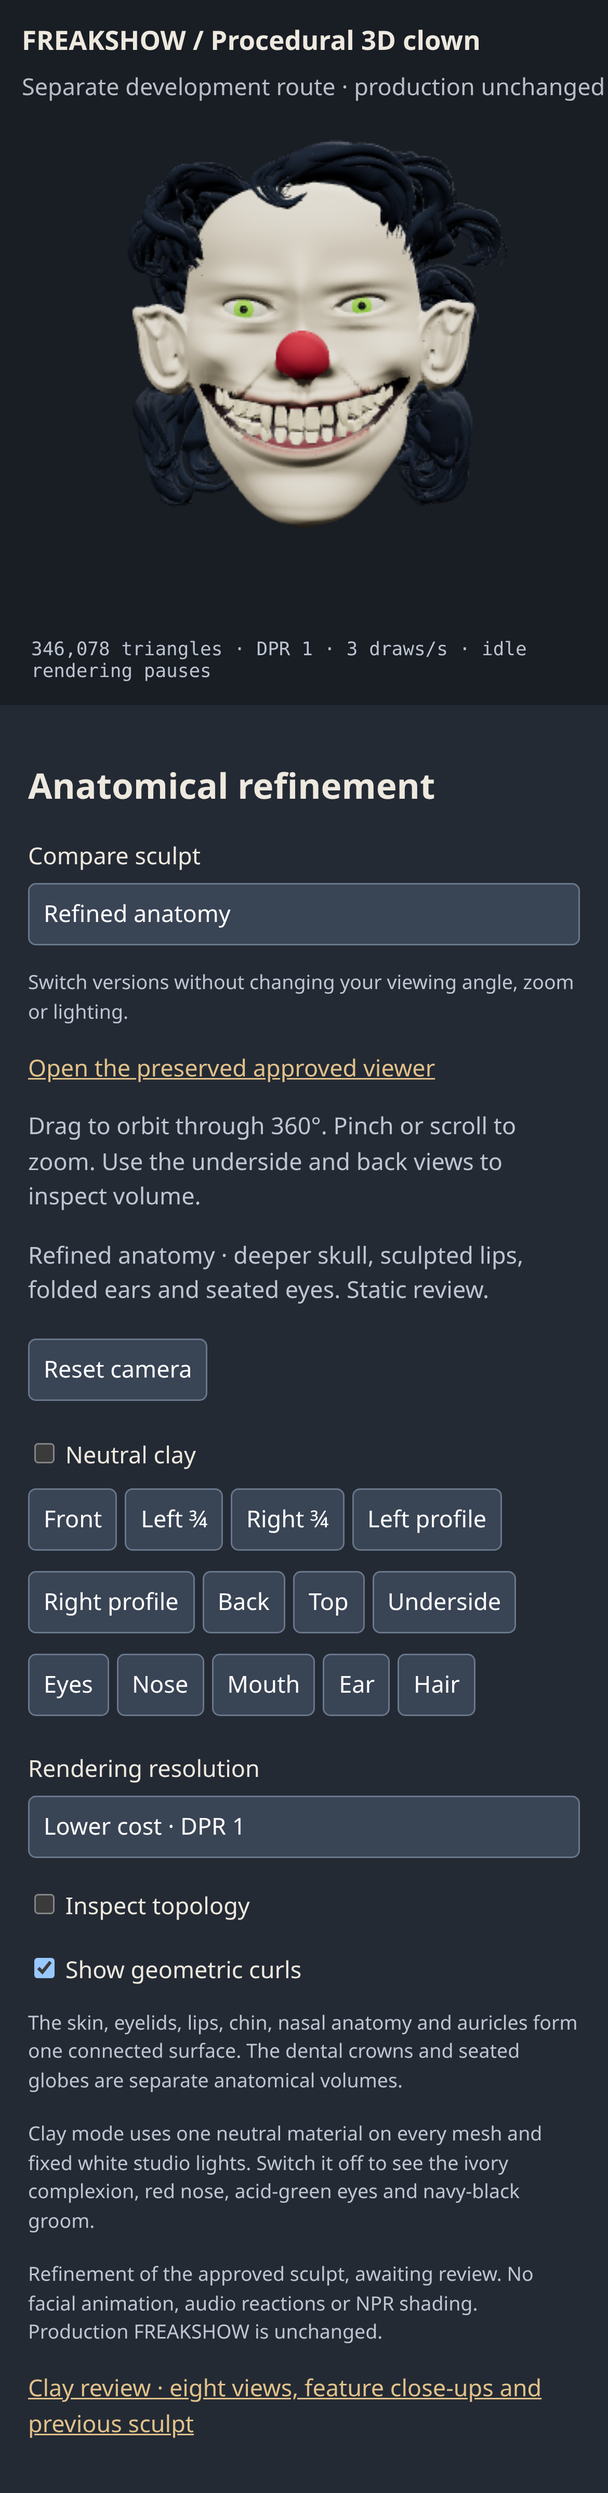
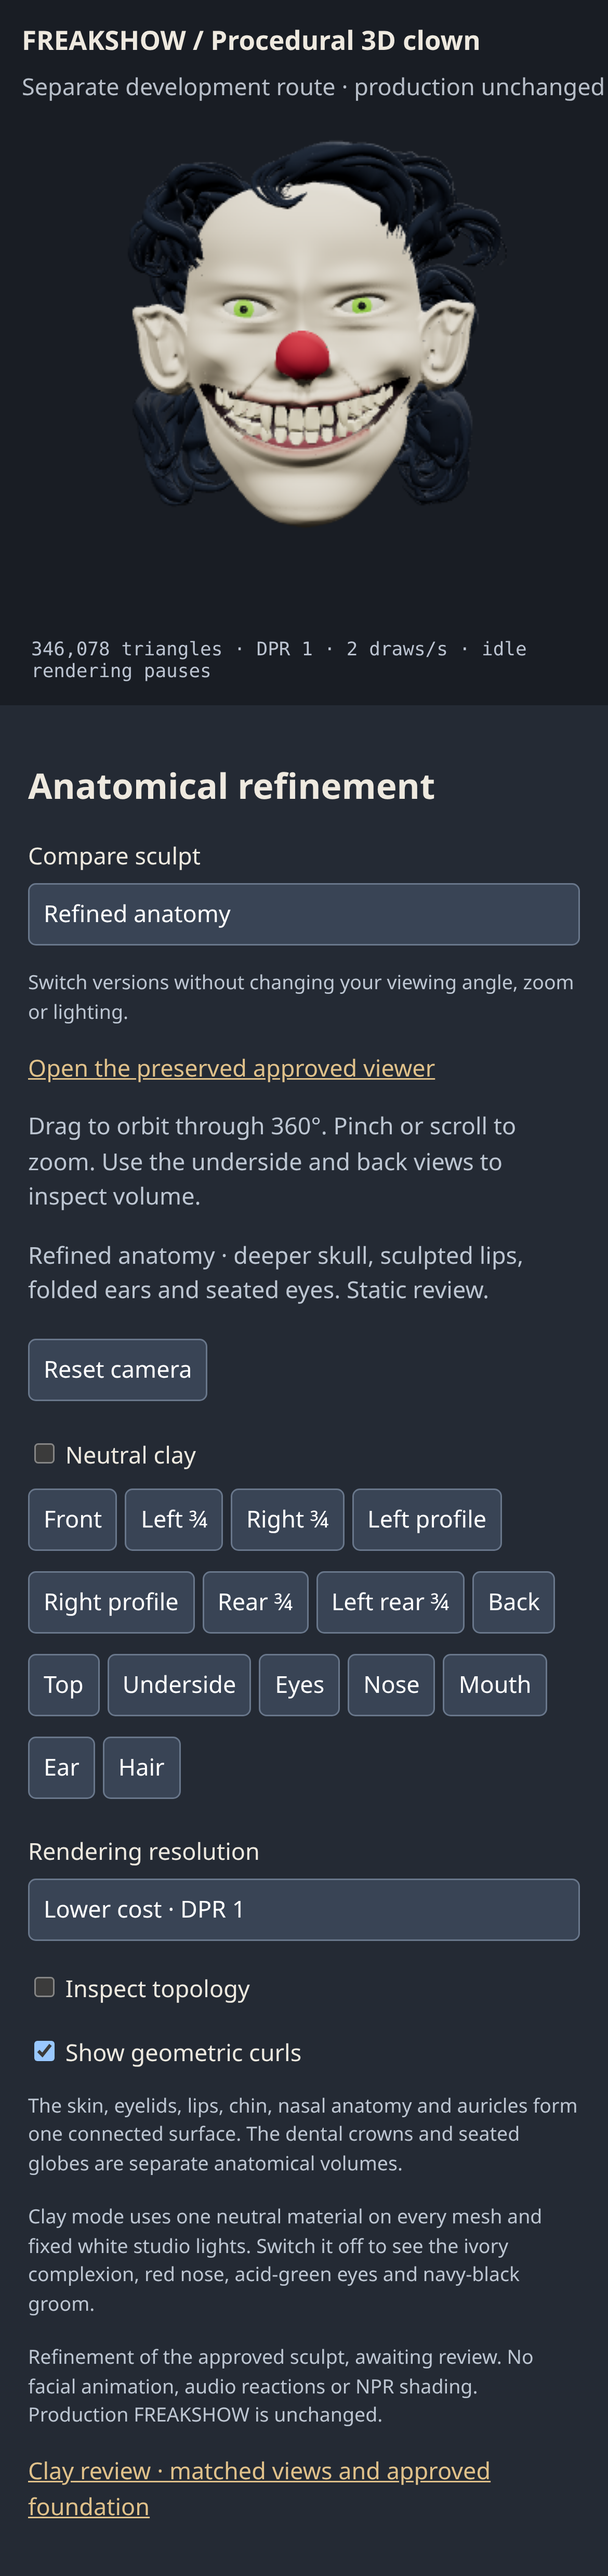
Verify rendered comparison frames and expose rear inspection views

diff --git a/tests/sculpted-viewer-browser.js b/tests/sculpted-viewer-browser.js
@@ -251,6 +251,11 @@ try {
         ),
       );
       assert.equal(await page.locator("#jaw,#expression").count(), 0);
+      await page.locator('[data-view="rear-three-quarter"]').click();
+      assert.ok(
+        await page.evaluate(() => assetViewer.camera.position.z < 0),
+        "Rear shortcut must show the rear",
+      );
       await capture(page);
       // Controls change the actual rendered scene and work independently of capture.
       await page.locator("#clay").uncheck();
@@ -317,6 +322,8 @@ try {
       await page.waitForFunction(
         () =>
           assetViewer.modelState.revision === "sculpt-reconstruction-2" &&
+          document.querySelector("#scene").dataset.renderedRevision ===
+            "sculpt-reconstruction-2" &&
           !document.querySelector("#model-version").disabled,
         null,
         { timeout: 90000 },
@@ -333,6 +340,8 @@ try {
       await page.waitForFunction(
         () =>
           assetViewer.modelState.revision === "anatomical-refinement-3" &&
+          document.querySelector("#scene").dataset.renderedRevision ===
+            "anatomical-refinement-3" &&
           !document.querySelector("#model-version").disabled,
       );
       const old = await browser.newPage({
@@ -414,15 +423,38 @@ try {
         await mobile.waitForFunction(
           () =>
             assetViewer.modelState.revision === "sculpt-reconstruction-2" &&
+            document.querySelector("#scene").dataset.renderedRevision ===
+              "sculpt-reconstruction-2" &&
             !document.querySelector("#model-version").disabled,
           null,
           { timeout: 90000 },
         );
         await mobile.selectOption("#model-version", "refined");
         await mobile.waitForFunction(
-          () => assetViewer.modelState.revision === "anatomical-refinement-3",
+          () =>
+            assetViewer.modelState.revision === "anatomical-refinement-3" &&
+            document.querySelector("#scene").dataset.renderedRevision ===
+              "anatomical-refinement-3",
         );
       }
+      await mobile.waitForFunction(
+        () =>
+          document.querySelector("#scene").dataset.renderedRevision ===
+          assetViewer.modelState.revision,
+      );
+      await mobile.evaluate(
+        () =>
+          new Promise((resolve) =>
+            requestAnimationFrame(() => requestAnimationFrame(resolve)),
+          ),
+      );
+      await mobile.waitForTimeout(150);
+      assert.ok(
+        await mobile.evaluate(
+          () => assetViewer.renderer.info.render.triangles > 340000,
+        ),
+        "Phone must render the refined geometry after switching back",
+      );
       await mobile.screenshot({
         path: remote
           ? `artifacts/sculpted-viewer/deployed-${engine}-phone.png`

diff --git a/public/3d-character-viewer/index.html b/public/3d-character-viewer/index.html
@@ -200,7 +200,9 @@
           ><button data-view="three-quarter">Right ¾</button>
           <button data-view="left-side">Left profile</button
           ><button data-view="side">Right profile</button>
-          <button data-view="back">Back</button
+          <button data-view="rear-three-quarter">Rear ¾</button
+          ><button data-view="left-rear-three-quarter">Left rear ¾</button
+          ><button data-view="back">Back</button
           ><button data-view="top">Top</button
           ><button data-view="underside">Underside</button>
           <button data-view="eyes">Eyes</button
@@ -235,11 +237,11 @@
         >
         <p>
           <a href="./review/index.html"
-            >Clay review · eight views, feature close-ups and previous sculpt</a
+            >Clay review · matched views and approved foundation</a
           >
         </p>
       </aside>
     </main>
-    <script type="module" src="./viewer.js?sculpt=3"></script>
+    <script type="module" src="./viewer.js?sculpt=3-frame"></script>
   </body>
 </html>

diff --git a/public/3d-character-viewer/viewer.js b/public/3d-character-viewer/viewer.js
@@ -35,6 +35,7 @@ try {
 }
 scene.add(character.root);
 const center = new THREE.Vector3(0, 0, 0);
+let renderedModelRevision = character.state.revision;
 let dirty = true,
   frames = 0,
   start = performance.now(),
@@ -127,7 +128,13 @@ function draw(now) {
   requestAnimationFrame(draw);
   orbit.update();
   if (dirty) {
+    const modelChanged =
+      canvas.dataset.renderedRevision !== renderedModelRevision;
     renderer.render(scene, camera);
+    if (modelChanged)
+      $("metrics").textContent =
+        `${renderer.info.render.triangles.toLocaleString()} triangles · DPR ${renderer.getPixelRatio()} · static sculpt`;
+    canvas.dataset.renderedRevision = renderedModelRevision;
     dirty = false;
     frames++;
   }
@@ -158,6 +165,7 @@ async function setModel(version) {
     }
     scene.remove(character.root);
     character = headCache.get(version);
+    renderedModelRevision = character.state.revision;
     scene.add(character.root);
     character.hair.visible = $("hair").checked;
     character.root.traverse((o) => {
